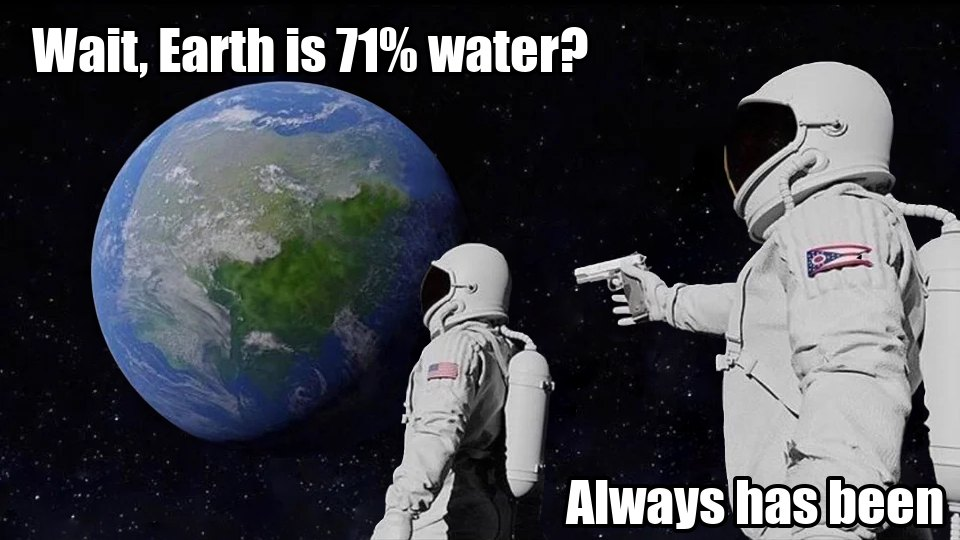
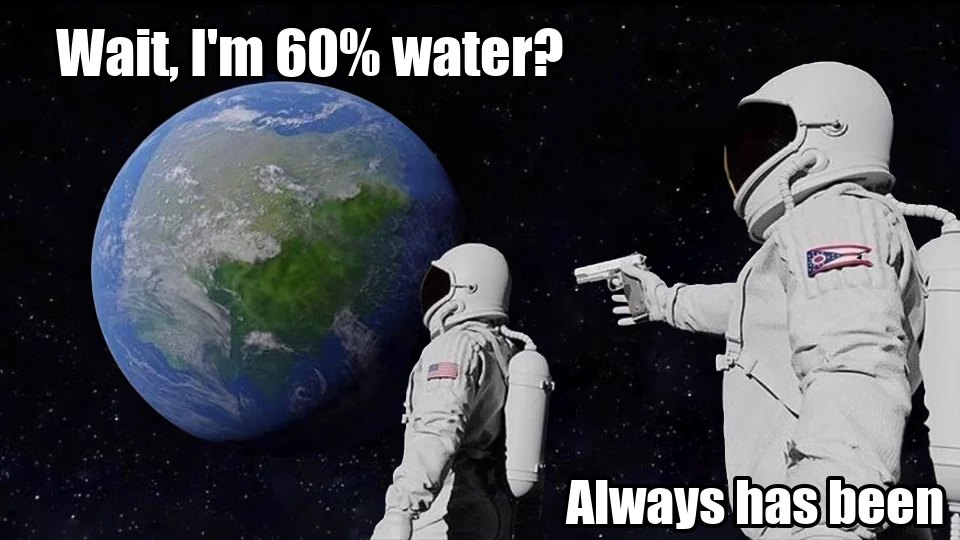
Swap memes for funnier ones, add Pokémon memes
Keep Surprised Pikachu; add Who's that Pokémon, Pokémon evolution and
Psyduck; replace the rest with Buff Doge, Two Buttons, Change My Mind.

Changed region(s): [[0.0312, 0.0296, 0.625, 0.1481]]

diff --git a/voda/index.html b/voda/index.html
@@ -313,7 +313,7 @@ b { font-weight: 700; color: var(--ink); }
       <div class="stat reveal"><b>97%</b><span>всей воды на планете —<br>солёные океаны</span></div>
     </div>
   </div>
-  <figure class="meme reveal" style="left:1030px;top:290px;width:780px;transform:rotate(1.5deg)"><span class="tag">мем · EN</span><img src="assets/memes/en-always.jpg" alt="Мем Always has been: Земля на 71% из воды"></figure>
+  <figure class="meme reveal" style="left:1030px;top:290px;width:780px;transform:rotate(1.5deg)"><span class="tag">мем · EN</span><img src="assets/memes/en-always.jpg" alt="Мем Always has been: я на 60% из воды"></figure>
 </section>
 <section class="slide" aria-label="Формула воды">
   <div class="col-left" style="width:1000px">
@@ -337,7 +337,7 @@ b { font-weight: 700; color: var(--ink); }
     </div>
     <ul class="list"><li class="reveal"><b>2 атома водорода</b> + <b>1 атом кислорода</b></li><li class="reveal">Молярная масса — <b>18 г/моль</b></li><li class="reveal">Связь ковалентная полярная, молекула — <b>диполь</b></li></ul>
   </div>
-  <figure class="meme reveal" style="left:1180px;top:200px;width:640px;transform:rotate(-1.5deg)"><span class="tag">мем · EN</span><img src="assets/memes/en-drake.jpg" alt="Мем Drake: water против dihydrogen monoxide"></figure>
+  <figure class="meme reveal" style="left:1160px;top:140px;height:780px;transform:rotate(-1.5deg)"><span class="tag">мем · EN</span><img src="assets/memes/en-whos-that-pokemon.jpg" alt="Мем Who's that Pokémon: силуэт молекулы воды похож на Микки Мауса"></figure>
 </section>
 <section class="slide" aria-label="Физические свойства">
   <div class="col-left" style="width:1000px">
@@ -346,7 +346,7 @@ b { font-weight: 700; color: var(--ink); }
     <div class="cells"><div class="cell reveal"><span class="mono-l">Цвет</span><b>нет</b></div><div class="cell reveal"><span class="mono-l">Запах</span><b>нет</b></div><div class="cell reveal"><span class="mono-l">Вкус</span><b>нет</b></div><div class="cell reveal"><span class="mono-l">t° плавления</span><b>0 °C</b></div><div class="cell reveal"><span class="mono-l">t° кипения</span><b>100 °C</b></div><div class="cell reveal"><span class="mono-l">Плотность</span><b>1 г/см³</b></div></div>
     <p class="note reveal">💧 Вода — <b>лучший растворитель</b>: в ней растворяются соль, сахар и даже газы.</p>
   </div>
-  <figure class="meme reveal" style="left:1130px;top:280px;width:690px;transform:rotate(1.5deg)"><span class="tag">мем · EN</span><img src="assets/memes/en-fine.jpg" alt="Мем This is fine: вода при 99 градусах"></figure>
+  <figure class="meme reveal" style="left:1140px;top:230px;width:680px;transform:rotate(1.5deg)"><span class="tag">мем · EN</span><img src="assets/memes/en-doge.jpg" alt="Мем Buff Doge vs Cheems: кипение на уровне моря и на Эвересте"></figure>
 </section>
 <section class="slide" aria-label="Три агрегатных состояния">
   <div class="col-left" style="width:1080px">
@@ -354,7 +354,7 @@ b { font-weight: 700; color: var(--ink); }
     <h2 class="reveal">Три агрегатных состояния</h2>
     <div class="states"><div class="state reveal"><img src="assets/ice.jpg" alt="лёд"><div class="state-t"><b>Твёрдое</b><span>лёд · ниже 0 °C</span></div></div><div class="state reveal"><img src="assets/water.jpg" alt="вода"><div class="state-t"><b>Жидкое</b><span>вода · 0 … 100 °C</span></div></div><div class="state reveal"><img src="assets/steam.jpg" alt="пар"><div class="state-t"><b>Газообразное</b><span>пар · выше 100 °C</span></div></div></div>
   </div>
-  <figure class="meme reveal" style="left:1240px;top:110px;height:860px;transform:rotate(1deg)"><span class="tag">мем · EN</span><img src="assets/memes/en-brain.jpg" alt="Мем Expanding brain: лёд, вода, пар, тройная точка"></figure>
+  <figure class="meme reveal" style="left:1220px;top:110px;height:860px;transform:rotate(1deg)"><span class="tag">мем · EN</span><img src="assets/memes/en-evolution.jpg" alt="Мем эволюция покемона: лёд эволюционировал в воду"></figure>
 </section>
 <section class="slide" aria-label="Лёд">
   <div class="col-left" style="width:640px">
@@ -387,7 +387,7 @@ b { font-weight: 700; color: var(--ink); }
   <div class="kicker reveal" style="position:absolute;left:110px;top:100px">Как вода меняется</div>
   <h2 class="reveal" style="position:absolute;left:110px;top:140px">Переходы между состояниями</h2>
   <div class="reveal" style="position:absolute;left:90px;top:280px;transform:scale(.98);transform-origin:0 0"><svg class="trans" viewBox="0 0 1060 760" width="1060" height="760"><defs><marker id="arb" viewBox="0 0 10 10" refX="8" refY="5" markerWidth="5" markerHeight="5" orient="auto"><path d="M0,0L10,5L0,10z" fill="#0a9fbd"/></marker><marker id="arc" viewBox="0 0 10 10" refX="8" refY="5" markerWidth="5" markerHeight="5" orient="auto"><path d="M0,0L10,5L0,10z" fill="#ff7a59"/></marker></defs><line x1="242" y1="499" x2="443" y2="232" stroke="#0a9fbd" stroke-width="5" marker-end="url(#arb)"/><text x="306" y="338" transform="rotate(-52.9 306 338)" text-anchor="middle" dominant-baseline="middle" class="tr-l" fill="#0a9fbd">плавление</text><line x1="478" y1="251" x2="277" y2="518" stroke="#ff7a59" stroke-width="5" marker-end="url(#arc)"/><text x="414" y="412" transform="rotate(307.1 414 412)" text-anchor="middle" dominant-baseline="middle" class="tr-l" fill="#ff7a59">кристаллизация</text><line x1="613" y1="227" x2="815" y2="494" stroke="#0a9fbd" stroke-width="5" marker-end="url(#arb)"/><text x="751" y="333" transform="rotate(52.9 751 333)" text-anchor="middle" dominant-baseline="middle" class="tr-l" fill="#0a9fbd">испарение</text><line x1="787" y1="523" x2="585" y2="256" stroke="#ff7a59" stroke-width="5" marker-end="url(#arc)"/><text x="649" y="417" transform="rotate(52.9 649 417)" text-anchor="middle" dominant-baseline="middle" class="tr-l" fill="#ff7a59">конденсация</text><line x1="302" y1="580" x2="752" y2="580" stroke="#0a9fbd" stroke-width="5" marker-end="url(#arb)"/><text x="527" y="534" transform="rotate(0.0 527 534)" text-anchor="middle" dominant-baseline="middle" class="tr-l" fill="#0a9fbd">сублимация</text><line x1="758" y1="620" x2="308" y2="620" stroke="#ff7a59" stroke-width="5" marker-end="url(#arc)"/><text x="533" y="666" transform="rotate(360.0 533 666)" text-anchor="middle" dominant-baseline="middle" class="tr-l" fill="#ff7a59">десублимация</text><circle cx="190" cy="600" r="100" fill="#fff" stroke="#7cc8e6" stroke-width="6"/><text x="190" y="600" text-anchor="middle" dominant-baseline="central" class="tr-n">ЛЁД</text><circle cx="530" cy="150" r="100" fill="#fff" stroke="#0a9fbd" stroke-width="6"/><text x="530" y="150" text-anchor="middle" dominant-baseline="central" class="tr-n">ВОДА</text><circle cx="870" cy="600" r="100" fill="#fff" stroke="#9fb4c4" stroke-width="6"/><text x="870" y="600" text-anchor="middle" dominant-baseline="central" class="tr-n">ПАР</text></svg></div>
-  <figure class="meme reveal" style="left:1200px;top:330px;width:620px;transform:rotate(1.5deg)"><span class="tag">мем · RU</span><img src="assets/memes/ru-pooh.jpg" alt="Мем Винни-Пух: растаять против фазового перехода"></figure>
+  <figure class="meme reveal" style="left:1200px;top:340px;width:620px;transform:rotate(1.5deg)"><span class="tag">мем · RU</span><img src="assets/memes/ru-psyduck.jpg" alt="Мем Псайдак: сублимация против десублимации"></figure>
 </section>
 <section class="slide" aria-label="Удивительные свойства воды">
   <div class="col-left" style="width:1020px">
@@ -404,7 +404,7 @@ b { font-weight: 700; color: var(--ink); }
     <h2 class="reveal">Выводы</h2>
     <ol class="concl"><li class="reveal"><span>01</span><p>Вода — <b>H₂O</b>: два водорода и один кислород</p></li><li class="reveal"><span>02</span><p>Бывает <b>твёрдой, жидкой и газообразной</b></p></li><li class="reveal"><span>03</span><p>Переходы: плавление, кипение, конденсация, кристаллизация</p></li><li class="reveal"><span>04</span><p>Лёд легче воды — и это спасает жизнь в водоёмах</p></li></ol>
   </div>
-  <figure class="meme reveal" style="left:1250px;top:110px;height:860px;transform:rotate(1.5deg)"><span class="tag">мем · RU</span><img src="assets/memes/ru-panik.jpg" alt="Мем Panik Kalm Panik: контрольная про воду"></figure>
+  <figure class="meme reveal" style="left:1250px;top:110px;height:860px;transform:rotate(1.5deg)"><span class="tag">мем · RU</span><img src="assets/memes/ru-buttons.jpg" alt="Мем две кнопки: выучить свойства воды или листать мемы"></figure>
 </section>
 <section class="slide s-end" aria-label="Спасибо за внимание">
   <div class="col-left" style="width:900px;top:200px">
@@ -412,7 +412,7 @@ b { font-weight: 700; color: var(--ink); }
     <h2 class="end-h reveal">Спасибо<br>за внимание!</h2>
     <div class="author reveal"><span class="mono-l">Автор</span><span class="author-name">Алекс Хечеян</span></div>
   </div>
-  <figure class="meme reveal" style="left:1010px;top:250px;width:810px;transform:rotate(1.5deg)"><span class="tag">мем · RU</span><img src="assets/memes/ru-boyfriend.jpg" alt="Мем Distracted boyfriend: класс смотрит на мемы про воду"></figure>
+  <figure class="meme reveal" style="left:1010px;top:230px;width:810px;transform:rotate(1.5deg)"><span class="tag">мем · EN</span><img src="assets/memes/en-change-my-mind.jpg" alt="Мем Change my mind: вода — лучший тип покемонов"></figure>
   <p class="credits">Фото: Wikimedia Commons — «Ice-Cubes» (בר, CC BY-SA 3.0); «Water drop, splash in blue» (gcardinal, CC BY 2.0);
   гейзер Строккур и глыба льда (Andreas Tille, CC BY-SA 3.0/4.0); «Ждун в Чите» (Andrijko Z., CC BY-SA 4.0). Шаблоны мемов — imgflip.</p>
 </section>
